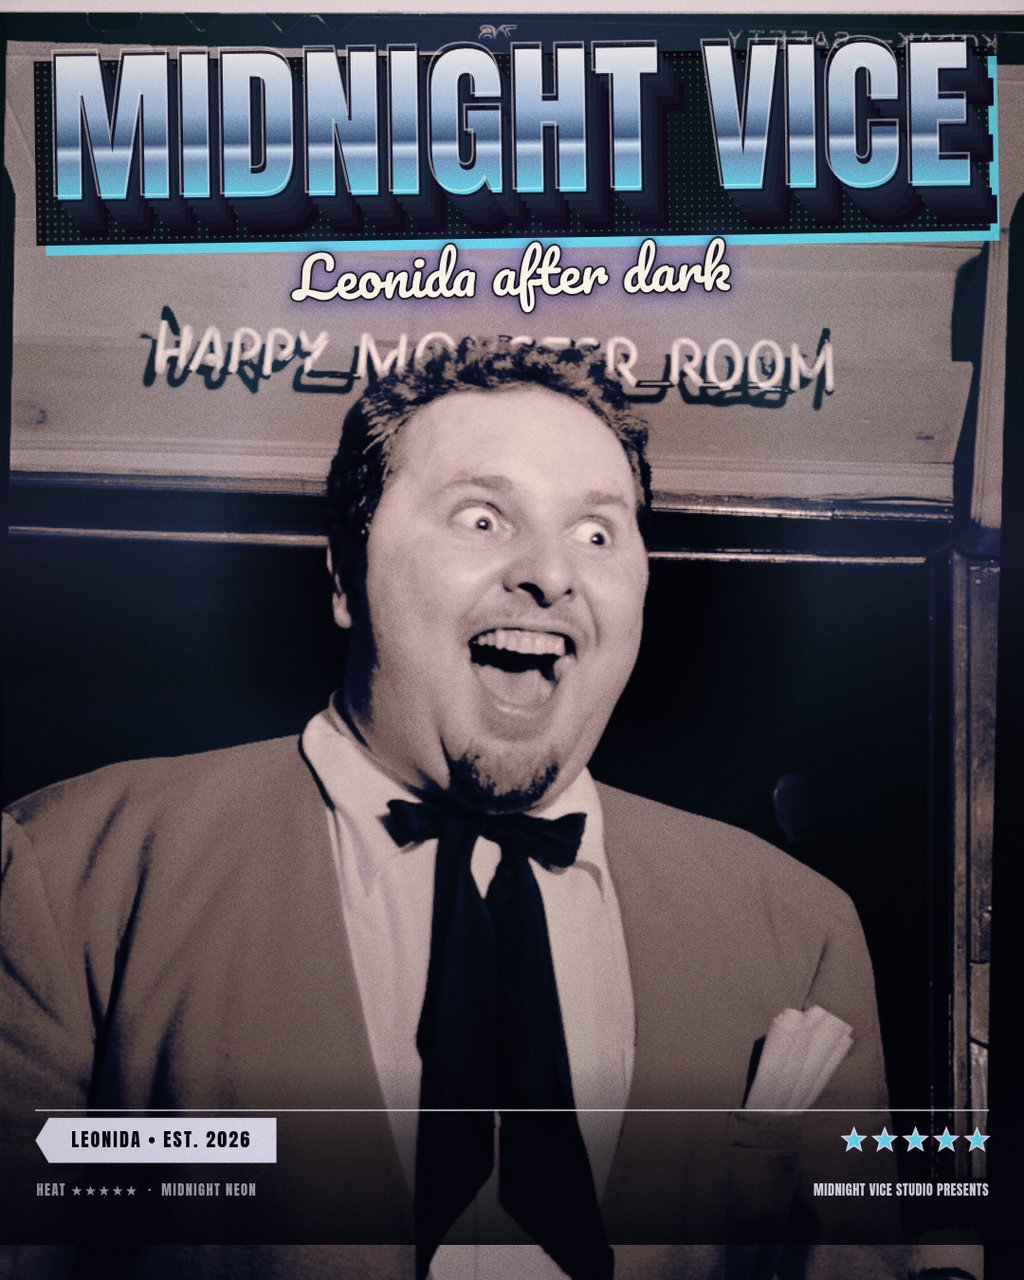
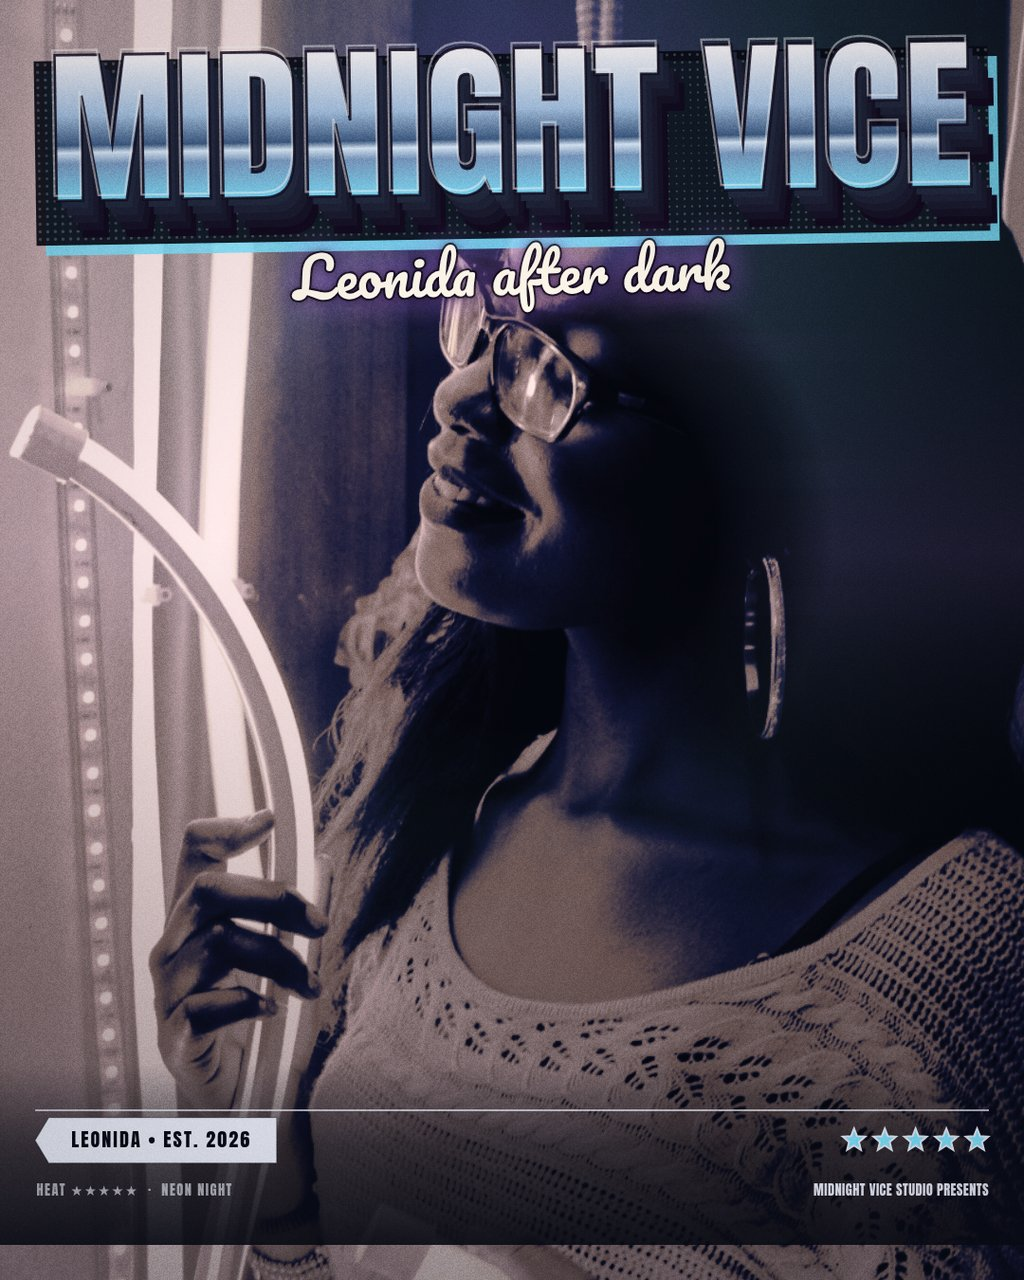
Midnight Vice: round 4 hero fix (3-brain review)

diff --git a/app/src/samples.js b/app/src/samples.js
@@ -1,14 +1,17 @@
-// The eight CC-licensed night photos that ship with Midnight Vice, with the
+// The nine CC-licensed night photos that ship with Midnight Vice, with the
 // face rectangle the hero poster frames on (fractions of the photo's width and
-// height, from the YuNet face detector at build time). Attribution is in the
-// README; nothing here is fetched at runtime -- these load from ./assets/.
+// height, from the YuNet face detector at build time). Each sample also carries
+// the role tag printed on its panel, so a tag always names the face it sits on.
+// Attribution is in the README; nothing here is fetched at runtime -- these
+// load from ./assets/.
 export const SAMPLES = [
-  { name: 'hero', file: 'hero.jpg', title: 'Portrait Chubby Jackson, Esquire Club', creator: 'libraryofcongress', license: 'cc0', face: { x: 0.3856, y: 0.2763, w: 0.2417, h: 0.2656 } },
-  { name: 'street', file: 'street.jpg', title: 'Neon Street', creator: 'Ethan Brooke', license: 'cc0', face: null },
-  { name: 'neon', file: 'neon.jpg', title: 'Free neon signs night Tokyo', creator: '', license: 'cc0', face: null },
-  { name: 'beach', file: 'beach.jpg', title: 'Galaxy, starry beach night, rocks', creator: '', license: 'cc0', face: null },
-  { name: 'car', file: 'car.jpg', title: 'Car neon night city cyberpunk gliwice poland vehicle citroen', creator: 'ijl92', license: 'cc0', face: null },
-  { name: 'palm', file: 'palm.jpg', title: 'Palm tree at night', creator: 'slobtsov', license: 'cc0', face: null },
-  { name: 'skyline', file: 'skyline.jpg', title: '1 singapore f1 night race 2012 city skyline', creator: 'chensiyuan', license: 'by-sa', face: null },
-  { name: 'motel', file: 'motel.jpg', title: 'Vintage motel neon sign preserved', creator: 'Carol M Highsmith', license: 'cc0', face: null },
+  { name: 'hero', file: 'hero.jpg', title: 'Woman Nightlife', creator: 'Matt Moloney', license: 'cc0', role: 'LUCIA', face: { x: 0.4010, y: 0.2373, w: 0.2715, h: 0.2576 } },
+  { name: 'glow', file: 'glow.jpg', title: 'Woman Neon', creator: 'Teddy Tavan', license: 'cc0', role: 'NEON ALLEY', face: null },
+  { name: 'street', file: 'street.jpg', title: 'Neon Street', creator: 'Ethan Brooke', license: 'cc0', role: 'OCEAN DRIVE', face: null },
+  { name: 'neon', file: 'neon.jpg', title: 'Free neon signs night Tokyo', creator: '', license: 'cc0', role: 'SIGN DISTRICT', face: null },
+  { name: 'beach', file: 'beach.jpg', title: 'Galaxy, starry beach night, rocks', creator: '', license: 'cc0', role: 'THE COAST', face: null },
+  { name: 'car', file: 'car.jpg', title: 'Car neon night city cyberpunk gliwice poland vehicle citroen', creator: 'ijl92', license: 'cc0', role: 'THE GETAWAY', face: null },
+  { name: 'palm', file: 'palm.jpg', title: 'Palm tree at night', creator: 'slobtsov', license: 'cc0', role: 'PALM NIGHTS', face: null },
+  { name: 'skyline', file: 'skyline.jpg', title: '1 singapore f1 night race 2012 city skyline', creator: 'chensiyuan', license: 'by-sa', role: 'THE CITY', face: null },
+  { name: 'motel', file: 'motel.jpg', title: 'Vintage motel neon sign preserved', creator: 'Carol M Highsmith', license: 'cc0', role: 'LAST EXIT', face: null },
 ];

diff --git a/app/src/main.js b/app/src/main.js
@@ -66,7 +66,7 @@ const state = {
   posterInk: true,
   compare: false,
   roleTags: true,
-  roles: ['LUCIA', 'JASON', 'THE CITY', 'LEONIDA', 'AFTER DARK', 'THE GETAWAY', 'NIGHT SHIFT', 'THE COAST', 'VICE'],
+  roles: ['LUCIA', 'NEON ALLEY', 'OCEAN DRIVE', 'THE CITY', 'SIGN DISTRICT', 'THE GETAWAY', 'PALM NIGHTS', 'THE COAST', 'LAST EXIT'],
   preview: 'landscape',
   selected: 0,
   slots: [],
@@ -99,10 +99,10 @@ function ensureSlots() {
   while (state.slots.length < n) state.slots.push({ photo: null, zoom: 1, ox: 0, oy: 0 });
 }
 
-function addImage(img, name, file, face) {
+function addImage(img, name, file, face, role = null) {
   const id = `p${++photoSeq}`;
   images.set(id, img);
-  state.photos.push({ id, name, file, face: face ?? null, url: img.src });
+  state.photos.push({ id, name, file, face: face ?? null, role, url: img.src });
   return id;
 }
 
@@ -132,7 +132,7 @@ async function loadSamples() {
   await Promise.all(SAMPLES.map(async (sample) => {
     try {
       const img = await loadImage(`./assets/${sample.file}`);
-      addImage(img, sample.name, sample.file, sample.face);
+      addImage(img, sample.name, sample.file, sample.face, sample.role);
     } catch {
       /* a missing sample just leaves the count short */
     }
@@ -185,7 +185,7 @@ function snapshot() {
     halftone: state.halftone, grain: state.grain, vignette: state.vignette,
     skyGlow: state.skyGlow, posterInk: state.posterInk, compare: state.compare,
     roleTags: state.roleTags,
-    photos: state.photos.map((p) => ({ id: p.id, name: p.name, file: p.file, face: p.face, url: p.url })),
+    photos: state.photos.map((p) => ({ id: p.id, name: p.name, file: p.file, face: p.face, role: p.role ?? null, url: p.url })),
     slots: state.slots.map((s) => ({ photo: s.photo, zoom: s.zoom, ox: s.ox, oy: s.oy, focus: s.focus ?? null })),
   });
 }
@@ -773,7 +773,7 @@ async function addSample() {
   if (!state.photos.some((p) => p.file === next.file)) {
     try {
       const img = await loadImage(`./assets/${next.file}`);
-      const id = addImage(img, next.name, next.file, next.face);
+      const id = addImage(img, next.name, next.file, next.face, next.role);
       assign(id, free >= 0 ? free : state.selected);
       commit(`Sample ${next.name} added`);
       syncControls();
@@ -908,7 +908,7 @@ async function boot() {
   // the hero layout with the face framed), then each remaining panel gets its
   // OWN photo and its OWN crop, never a shared one.
   const byName = (n) => state.photos.find((p) => p.name === n)?.id ?? null;
-  const seed = ['hero', 'street', 'neon', 'car', 'palm', 'beach', 'skyline', 'motel'];
+  const seed = ['hero', 'glow', 'street', 'neon', 'car', 'palm', 'beach', 'skyline', 'motel'];
   const crops = [
     [1.04, 0.00, 0.00, 'face'], [1.14, -0.30, 0.22], [1.06, 0.26, -0.24],
     [1.22, 0.14, 0.28], [1.02, -0.12, -0.30], [1.10, 0.32, 0.10],

diff --git a/app/src/shots.js b/app/src/shots.js
@@ -3,15 +3,30 @@
 //   shot=editor the full editor with a composed cover loaded
 // Other query keys: layout, grade, title, subtitle, footer, badge, stars, style
 // (white|sunset|chrome), preview (square|portrait|landscape|story),
-// photo (comma-separated sample names), focus (name=face file to frame on).
+// photo (comma-separated sample names), focus (name=face file to frame on),
+// preset (cover1|cover3|cover4|editor).
 // window.__shotReady is set once the cover is painted.
 //
 // Every panel gets its OWN crop: a varied table seeded by the panel index, so no
 // two panels repeat the same zoom and offset (the round-3 bug where every panel
 // fell back to one crop cannot recur here).
+
+/**
+ * The four judged scenes. Each cover uses a DIFFERENT night photo -- a face
+ * portrait for the landscape hero, a neon-lit portrait for the tall crop and the
+ * palms for the story -- so the contact sheet never shows one photo three times.
+ */
+export const SHOT_PRESETS = {
+  cover1: { layout: 'hero', grade: 'midnight', style: 'chrome', photo: 'hero', focus: 'hero', preview: 'landscape' },
+  cover3: { layout: 'hero', grade: 'neon', style: 'chrome', photo: 'glow', preview: 'portrait' },
+  cover4: { layout: 'hero', grade: 'vice', style: 'sunset', photo: 'palm', preview: 'story' },
+  editor: { layout: 'nine', grade: 'midnight', photo: 'hero,glow,street,neon,car,palm,beach,skyline,motel', preview: 'landscape' },
+};
+
 export async function runShot(shot, query, studio) {
   const { state } = studio;
-  const pick = (key, fallback) => query.get(key) ?? fallback;
+  const preset = SHOT_PRESETS[query.get('preset')] ?? {};
+  const pick = (key, fallback) => query.get(key) ?? preset[key] ?? fallback;
 
   if (shot === 'cover') document.body.classList.add('shot-cover');
   if (shot === 'editor') document.body.classList.add('shot-editor');
@@ -48,12 +63,15 @@ export async function runShot(shot, query, studio) {
     }
   }
 
+  // The hero crop frames its subject on the face instead of a fixed offset, so
+  // the portrait stays whole in landscape and in the tall crops alike.
   const focus = pick('focus', '');
   if (focus) {
     const photo = state.photos.find((p) => p.file === focus || p.name === focus);
     if (photo?.face) {
       const first = state.slots.findIndex((s) => s.photo === photo.id);
       if (first >= 0) state.slots[first].focus = photo.face;
+      if (first >= 0 && state.layout === 'hero') state.slots[first].zoom = 1.04;
     }
   }
 

diff --git a/app/src/render.js b/app/src/render.js
@@ -17,11 +17,21 @@ export const EXPORT_SIZES = [
 export const TITLE_FACE = '"Anton", "Arial Narrow", Impact, sans-serif';
 export const SCRIPT_FACE = '"Pacifico", "Brush Script MT", cursive';
 
-/** Role tags printed beside each panel, in panel order. */
+/**
+ * Fallback role tags, in panel order. A shipped sample carries its own tag (see
+ * samples.js) so the label always names the photo under it -- a street scene is
+ * never tagged with a character's name; this list only covers uploaded photos.
+ */
 export const ROLE_TAGS = [
-  'LUCIA', 'JASON', 'THE CITY', 'LEONIDA', 'AFTER DARK', 'THE GETAWAY',
-  'NIGHT SHIFT', 'THE COAST', 'VICE',
+  'LUCIA', 'NEON ALLEY', 'OCEAN DRIVE', 'THE CITY', 'SIGN DISTRICT',
+  'THE GETAWAY', 'PALM NIGHTS', 'THE COAST', 'LAST EXIT',
 ];
+
+/** The caption for a panel: the photo's own tag first, then a positional one. */
+export function panelRole(state, slot, index) {
+  const photo = slot?.photo ? state.photos?.find((p) => p.id === slot.photo) : null;
+  return photo?.role || state.roles?.[index] || ROLE_TAGS[index % ROLE_TAGS.length];
+}
 
 /**
  * Where the masthead, panel field and footer sit for a canvas size. A landscape
@@ -352,7 +362,7 @@ function drawPanels(ctx, state, plan, palette, graded, size) {
       ctx.stroke();
     }
     if (!rect.bleed && image && state.roleTags !== false) {
-      drawRoleTag(ctx, rect, state.roles?.[i] ?? ROLE_TAGS[i % ROLE_TAGS.length], palette, size);
+      drawRoleTag(ctx, rect, panelRole(state, slot, i), palette, size);
     }
     ctx.restore();
   });

diff --git a/app/style.css b/app/style.css
@@ -99,6 +99,10 @@ h1, h2 { margin: 0; font-weight: 700; }
 .field-title input { font-family: "Anton", Impact, sans-serif; letter-spacing: 0.05em; font-size: 14px; }
 .field-script input { font-family: "Pacifico", cursive; font-size: 13px; }
 .field-script { max-width: 180px; }
+/* The footer line is set in the poster's condensed caps, so it needs the extra
+   width to show "Midnight Vice Studio presents" whole instead of an ellipsis. */
+.field-footer { max-width: 240px; flex: 1.6; }
+.field-footer input { font-family: "Anton", Impact, sans-serif; letter-spacing: 0.03em; font-size: 12px; }
 
 .topbar-actions { display: flex; align-items: center; gap: 8px; }
 .history { display: flex; gap: 4px; }
@@ -316,4 +320,6 @@ body.shot-editor .stage { padding: 10px 14px 12px; }
 @media (max-width: 1120px) {
   .workbench { grid-template-columns: 222px minmax(0, 1fr) 222px; }
   .fields .field-script { display: none; }
+  .fields .field-footer { display: flex; flex: 2; max-width: 230px; }
+  .field-footer input { font-size: 11px; }
 }

diff --git a/app/index.html b/app/index.html
@@ -25,7 +25,7 @@
         <span>Subtitle</span>
         <input id="subtitle" type="text" maxlength="34" value="Leonida after dark" autocomplete="off" spellcheck="false">
       </label>
-      <label class="field field-script">
+      <label class="field field-script field-footer">
         <span>Footer</span>
         <input id="footer" type="text" maxlength="40" value="Midnight Vice Studio presents" autocomplete="off" spellcheck="false">
       </label>

diff --git a/README.md b/README.md
@@ -34,15 +34,16 @@ Then open http://localhost:8080 in a desktop browser. Pick photos with **Upload 
 | `screenshots/1-cover.jpg` — landscape export, full-bleed hero, Midnight Neon | `screenshots/2-editor.jpg` — the editor |
 | `screenshots/3-cover.jpg` — portrait export, full-bleed hero | `screenshots/4-cover.jpg` — story export, full-bleed hero |
 
-Everything in `app/` is offline: fonts are vendored (Anton and Pacifico, OFL), the eight sample photos ship with the app under `app/assets/`, and no request leaves the page at runtime.
+Everything in `app/` is offline: fonts are vendored (Anton and Pacifico, OFL), the nine sample photos ship with the app under `app/assets/`, and no request leaves the page at runtime.
 
 ## Sample photo credits
 
-The eight night sample photos in `app/assets/` were fetched at build time from [Openverse](https://api.openverse.org) (CC-licensed, no key) and are vendored so the app stays offline. Each keeps its licence:
+The nine night sample photos in `app/assets/` were fetched at build time from [Openverse](https://api.openverse.org) (CC-licensed, no key) and are vendored so the app stays offline. Each keeps its licence:
 
 | File | Title | Creator | Provider | Licence |
 |---|---|---|---|---|
-| `hero.jpg` | Portrait Chubby Jackson, Esquire Club | libraryofcongress | rawpixel | [CC0 1.0](https://creativecommons.org/publicdomain/zero/1.0/) |
+| `hero.jpg` | Woman Nightlife | Matt Moloney | stocksnap | [CC0 1.0](https://creativecommons.org/publicdomain/zero/1.0/) |
+| `glow.jpg` | Woman Neon | Teddy Tavan | stocksnap | [CC0 1.0](https://creativecommons.org/publicdomain/zero/1.0/) |
 | `street.jpg` | Neon Street | Ethan Brooke | stocksnap | [CC0 1.0](https://creativecommons.org/publicdomain/zero/1.0/) |
 | `neon.jpg` | Free neon signs night Tokyo | — | rawpixel | [CC0 1.0](https://creativecommons.org/publicdomain/zero/1.0/) |
 | `beach.jpg` | Galaxy, starry beach night, rocks | — | rawpixel | [CC0 1.0](https://creativecommons.org/publicdomain/zero/1.0/) |
@@ -69,4 +70,4 @@ MAKEFUN_OUTPUT_DIR=out node main.ts
 
 ## License
 
-The make.fun dossier library is provided by the kit; fonts are under the SIL Open Font License (see `app/fonts/OFL-*.txt`); the eight sample photos keep the licences listed above. Everything else is original to this entry. See `LICENSE`.
+The make.fun dossier library is provided by the kit; fonts are under the SIL Open Font License (see `app/fonts/OFL-*.txt`); the nine sample photos keep the licences listed above. Everything else is original to this entry. See `LICENSE`.
